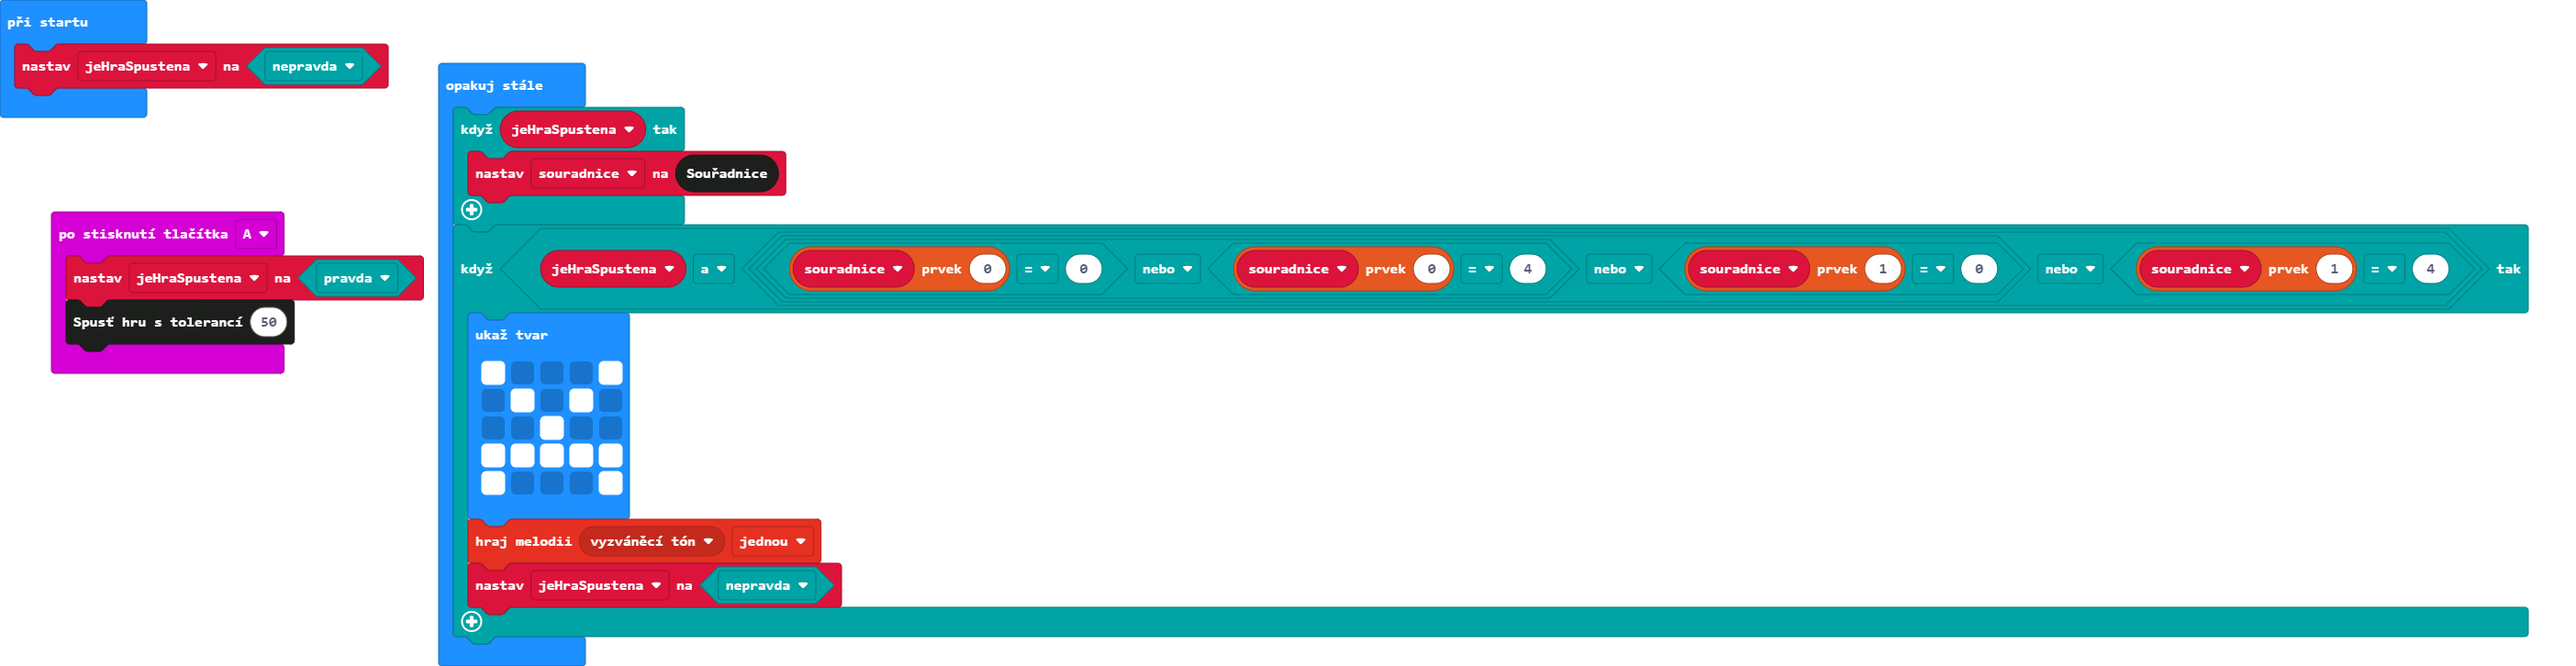
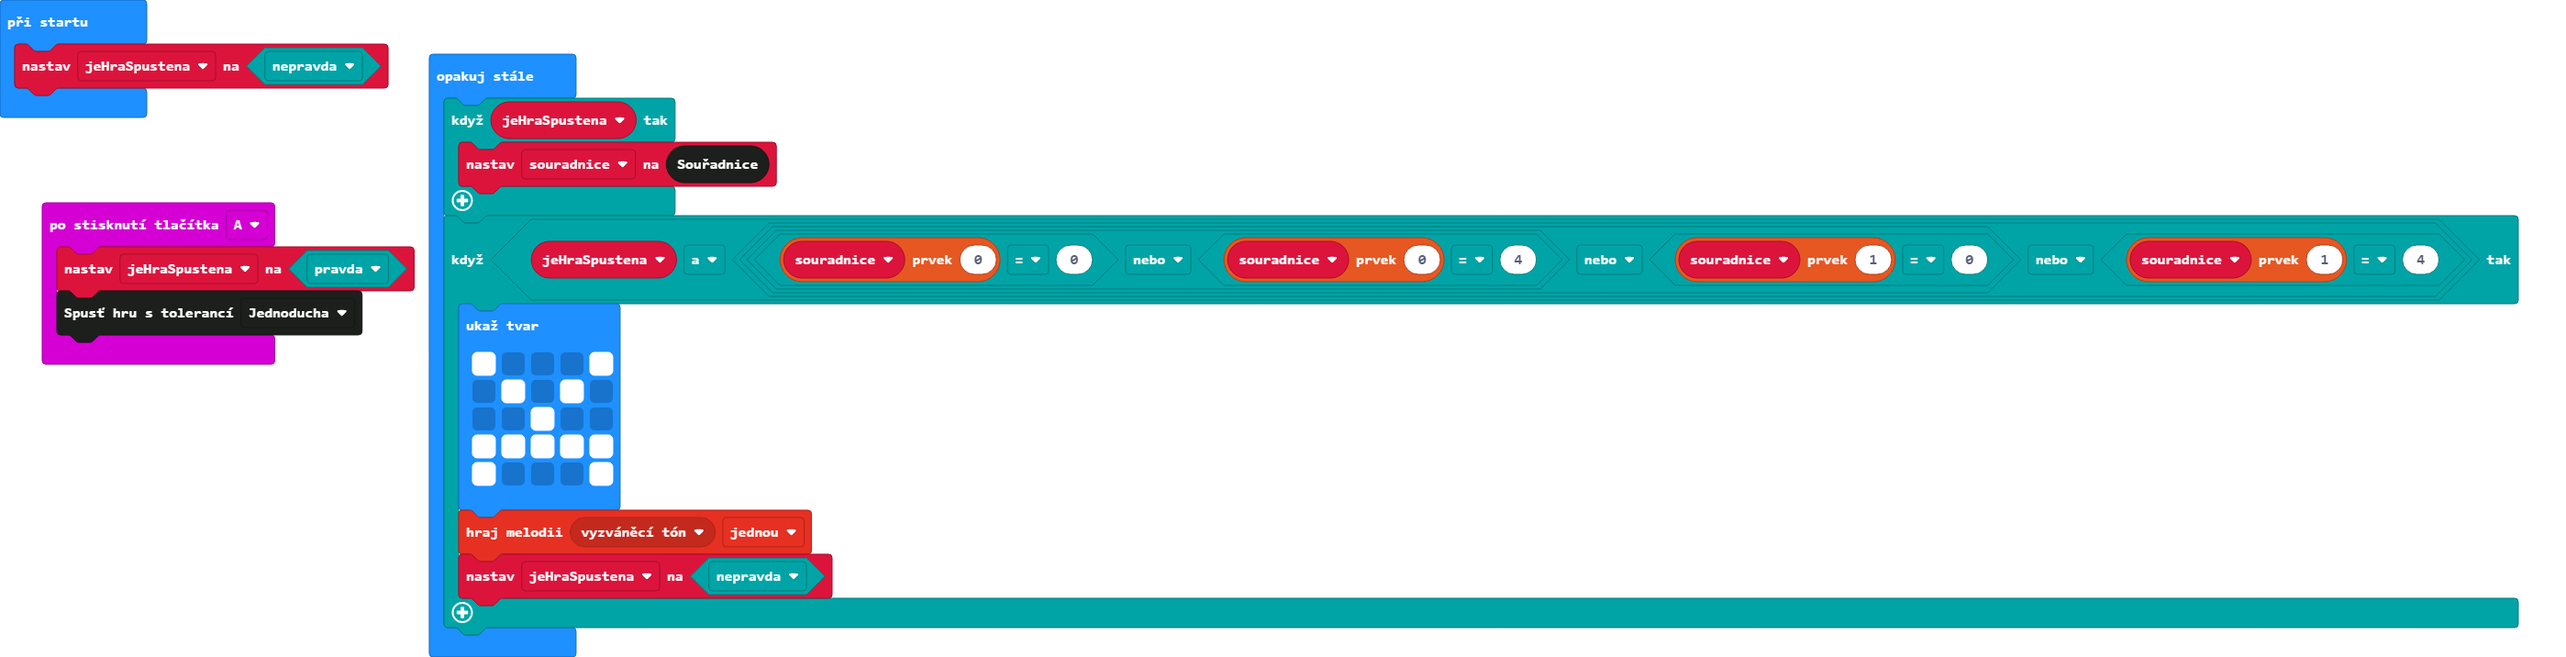
Aktualizovat main.blocks, main.ts, balancing.ts

Changed region(s): [[0.0, 0.0615, 0.9954, 1.0], [0.2177, 0.9525, 0.2488, 1.0]]

diff --git a/balancing.ts b/balancing.ts
@@ -1,3 +1,9 @@
+enum Difficulty {
+    Jednoducha = 100,
+    Stredni = 50,
+    Tezka = 25,
+}
+
 //% weight=100 color=#1d1f1d icon="\uf24e" block="Balancování"
 namespace Balancovani {
 
@@ -10,11 +16,11 @@ namespace Balancovani {
 
     /**
     * Spustí hru a nastaví toleranci
-    * @tolerance Tolerance nakloňení a zrychlení
+    * @obtiznost Obtížnost hry
     */
     //% block="Spusť hru s tolerancí %tolerance"
-    export function spustitHru(tolerance: number): void {
-        okraje = tolerance
+    export function spustitHru(obtiznost: Difficulty): void {
+        okraje = obtiznost
         basic.showLeds(`
         . . . . .
         . . . . .
@@ -22,8 +28,8 @@ namespace Balancovani {
         . . . . .
         . . . . .
         `)
-        x = Math.floor(Math.map(input.rotation(Rotation.Roll), 0 - okraje, okraje, 0, 4) / 0.8)
-        y = Math.floor(Math.map(input.rotation(Rotation.Pitch), 0 - okraje, okraje, 0, 4) / 0.8)
+        x = Math.floor(Math.floor(Math.map(input.rotation(Rotation.Roll), -180 + (180 - okraje), 180 - (180 - okraje), -1, 5) / 0.8))
+        y = Math.floor(Math.floor(Math.map(input.rotation(Rotation.Pitch), -180 + (180 - okraje), 180 - (180 - okraje), -1, 5) / 0.8))
         led.plot(x, y)
     }
 
@@ -34,8 +40,8 @@ namespace Balancovani {
     export function souradnice(): number[] {
         predchoziX  = x
         predchoziY = y
-        x = Math.floor(Math.map(input.rotation(Rotation.Roll), 0 - okraje, okraje, 0, 4) / 0.8)
-        y = Math.floor(Math.map(input.rotation(Rotation.Pitch), 0 - okraje, okraje, 0, 4) / 0.8)
+        x = Math.floor(Math.map(input.rotation(Rotation.Roll), -180 + (180 - okraje), 180 - (180 - okraje), -1, 5) / 0.8)
+        y = Math.floor(Math.map(input.rotation(Rotation.Pitch), -180 + (180 - okraje), 180 - (180 - okraje), -1, 5) / 0.8)
         if (x != predchoziX || y != predchoziY) {
             led.unplot(predchoziX, predchoziY)
             led.plot(x, y)

diff --git a/main.ts b/main.ts
@@ -1,6 +1,6 @@
 input.onButtonPressed(Button.A, function () {
     jeHraSpustena = true
-    Balancovani.spustitHru(50)
+    Balancovani.spustitHru(Difficulty.Jednoducha)
 })
 let souradnice: number[] = []
 let jeHraSpustena = false
